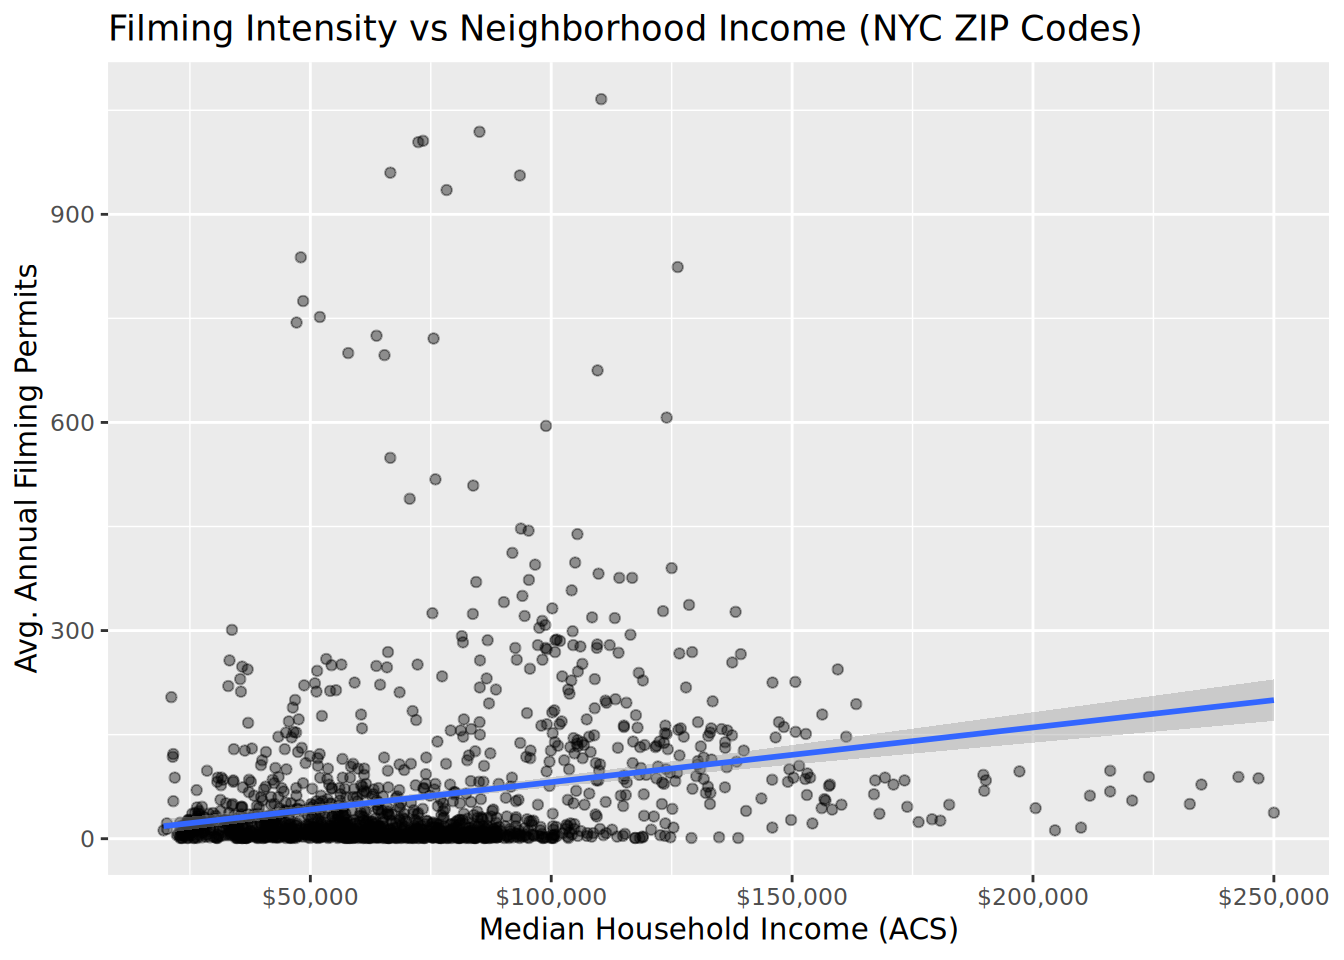
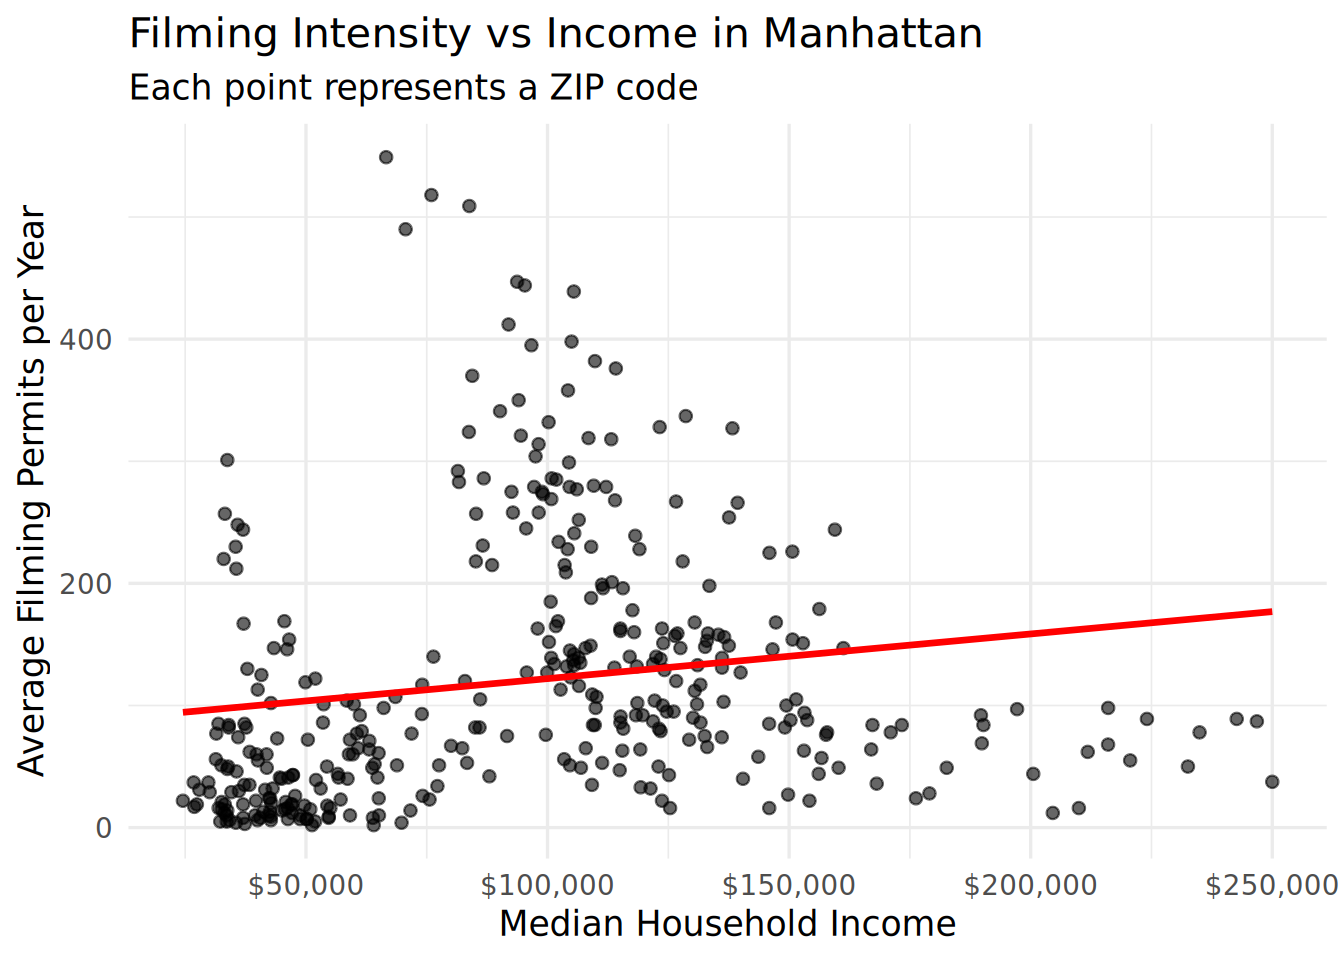
final final final

diff --git a/docs/project.html b/docs/project.html
@@ -250,7 +250,7 @@ ul.task-list li input[type="checkbox"] {
 <div class="cell-output-display">
 <div>
 <figure class="figure">
-<p><img src="project_files/figure-html/unnamed-chunk-11-1.png" class="img-fluid figure-img" width="672"></p>
+<p><img src="project_files/figure-html/unnamed-chunk-10-1.png" class="img-fluid figure-img" width="672"></p>
 </figure>
 </div>
 </div>
@@ -286,6 +286,43 @@ Signif. codes:  0 '***' 0.001 '**' 0.01 '*' 0.05 '.' 0.1 ' ' 1
 Residual standard error: 112.4 on 1573 degrees of freedom
 Multiple R-squared:  0.05326,   Adjusted R-squared:  0.05266 
 F-statistic: 88.49 on 1 and 1573 DF,  p-value: &lt; 2.2e-16</code></pre>
+</div>
+</div>
+<div class="cell">
+<div class="cell-output-display">
+<div>
+<figure class="figure">
+<p><img src="project_files/figure-html/unnamed-chunk-11-1.png" class="img-fluid figure-img" width="672"></p>
+</figure>
+</div>
+</div>
+<div class="cell-output-display">
+<div>
+<figure class="figure">
+<p><img src="project_files/figure-html/unnamed-chunk-11-2.png" class="img-fluid figure-img" width="672"></p>
+</figure>
+</div>
+</div>
+<div class="cell-output-display">
+<div>
+<figure class="figure">
+<p><img src="project_files/figure-html/unnamed-chunk-11-3.png" class="img-fluid figure-img" width="672"></p>
+</figure>
+</div>
+</div>
+<div class="cell-output-display">
+<div>
+<figure class="figure">
+<p><img src="project_files/figure-html/unnamed-chunk-11-4.png" class="img-fluid figure-img" width="672"></p>
+</figure>
+</div>
+</div>
+<div class="cell-output-display">
+<div>
+<figure class="figure">
+<p><img src="project_files/figure-html/unnamed-chunk-11-5.png" class="img-fluid figure-img" width="672"></p>
+</figure>
+</div>
 </div>
 </div>
 
